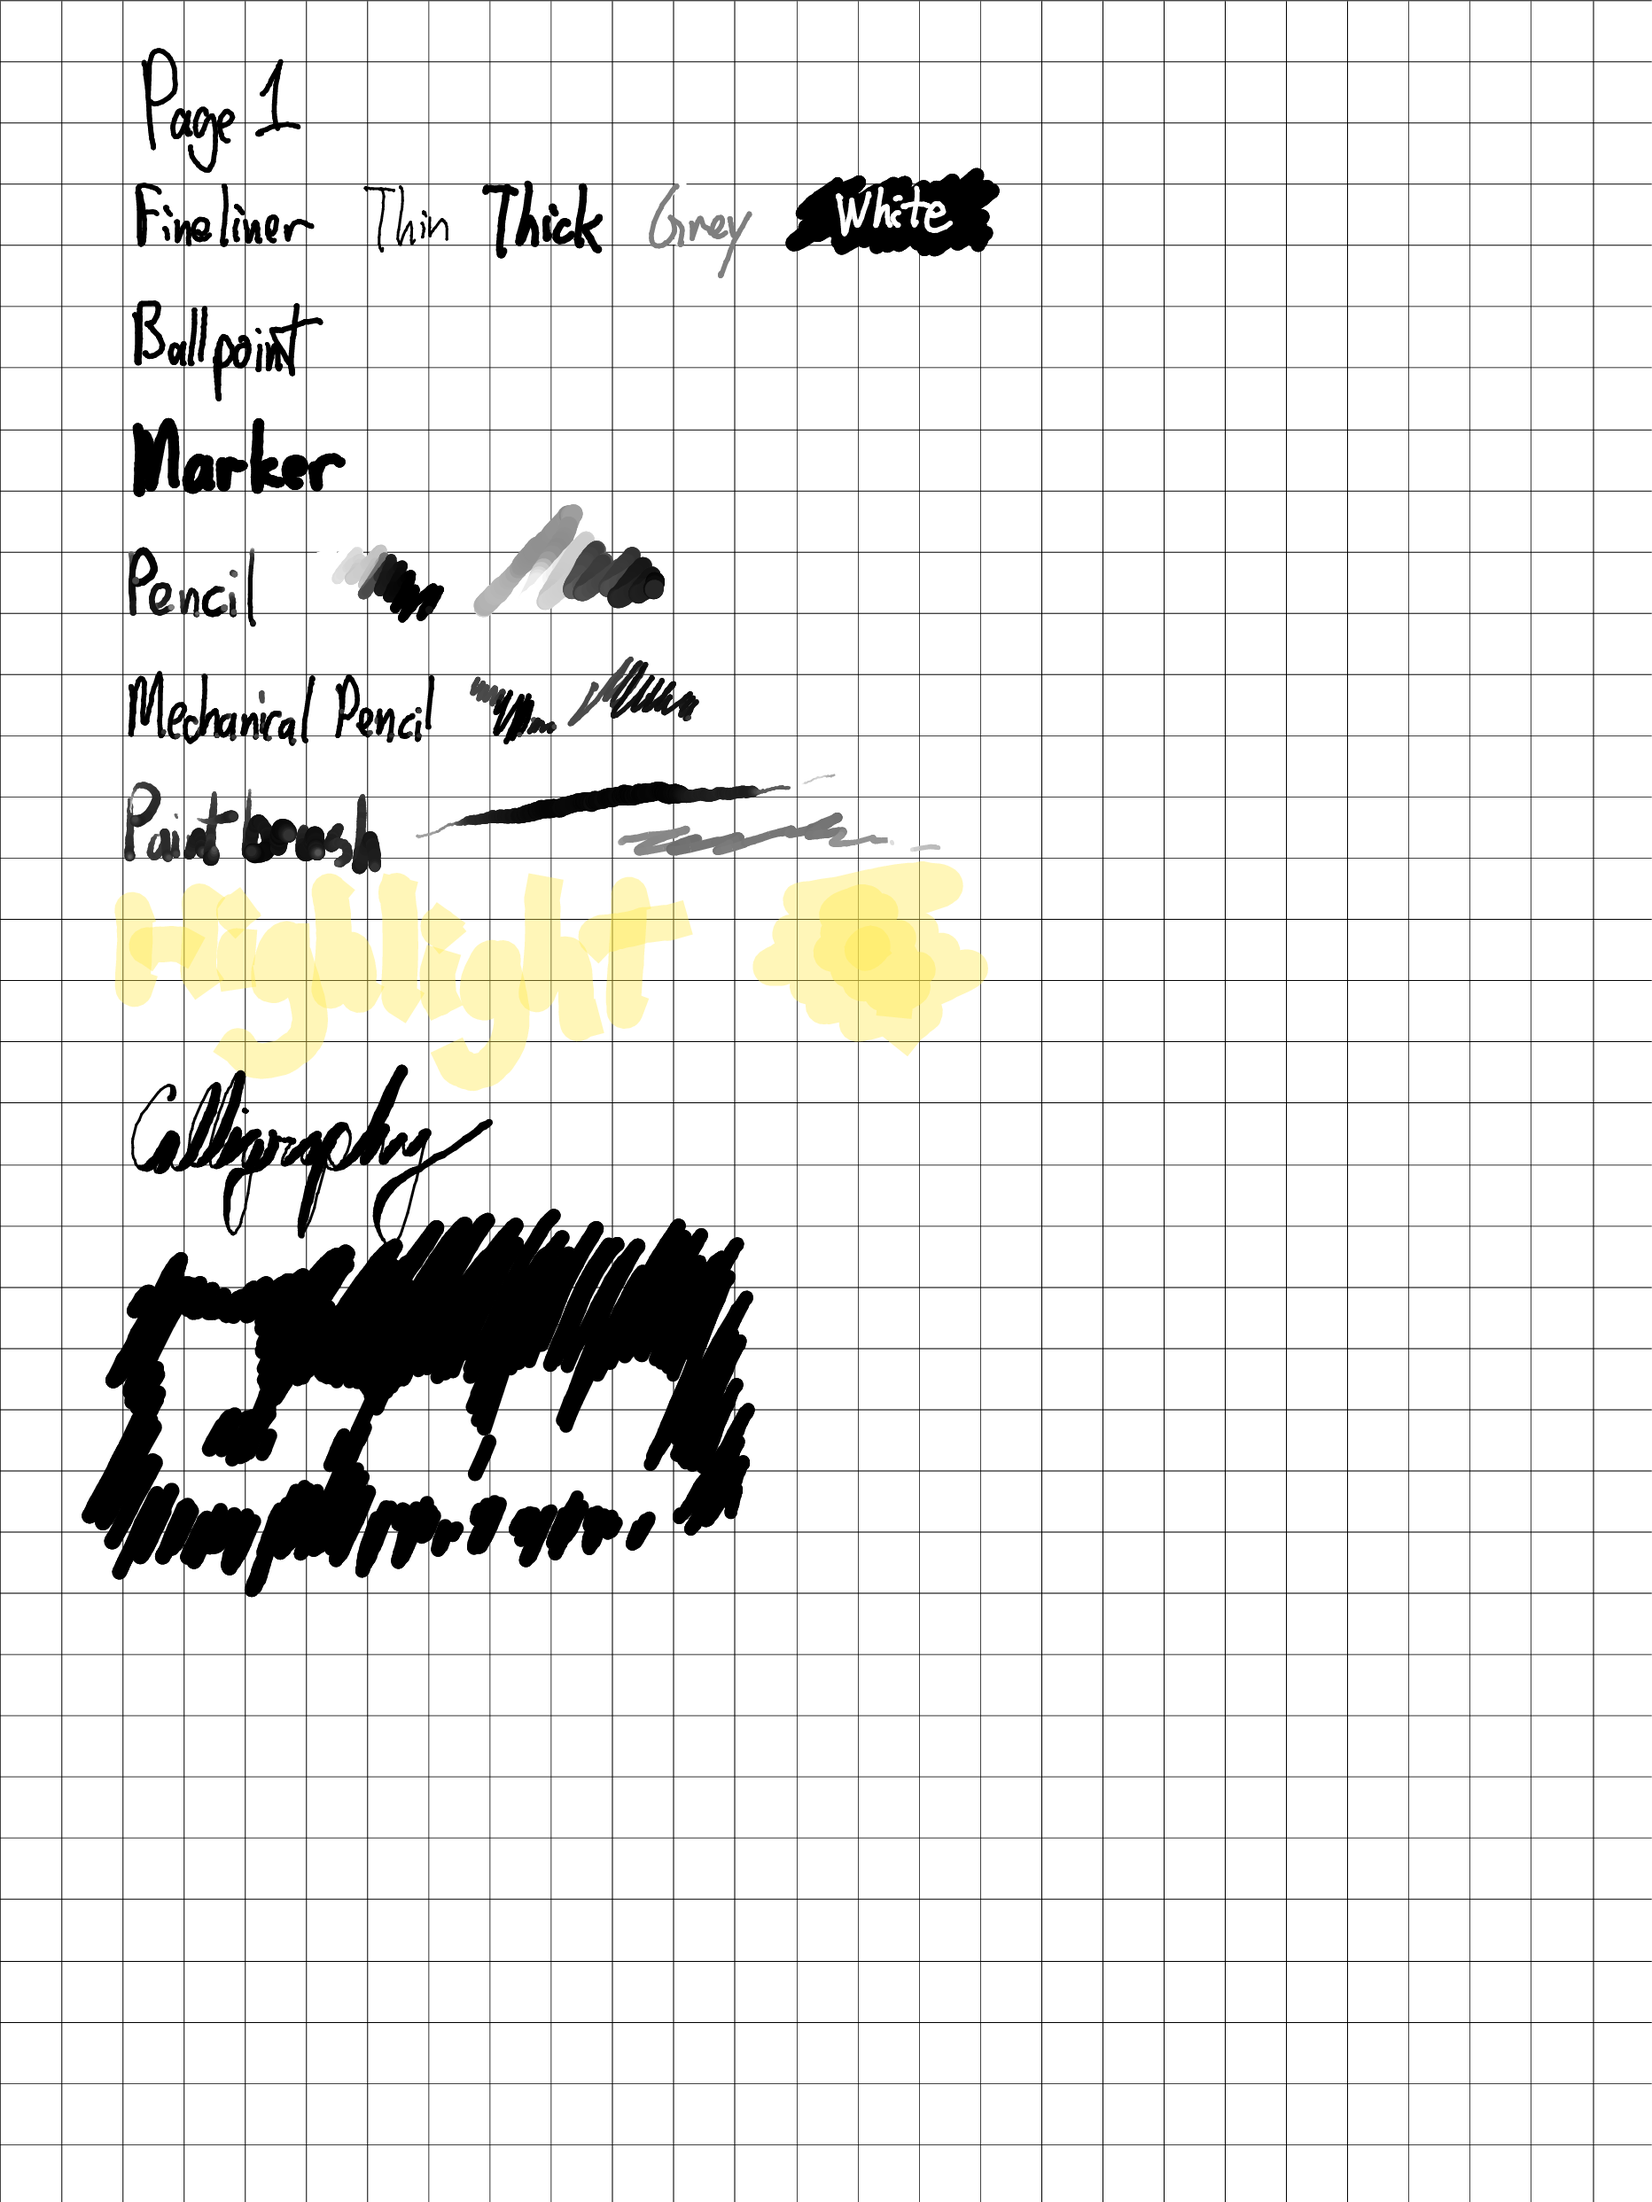
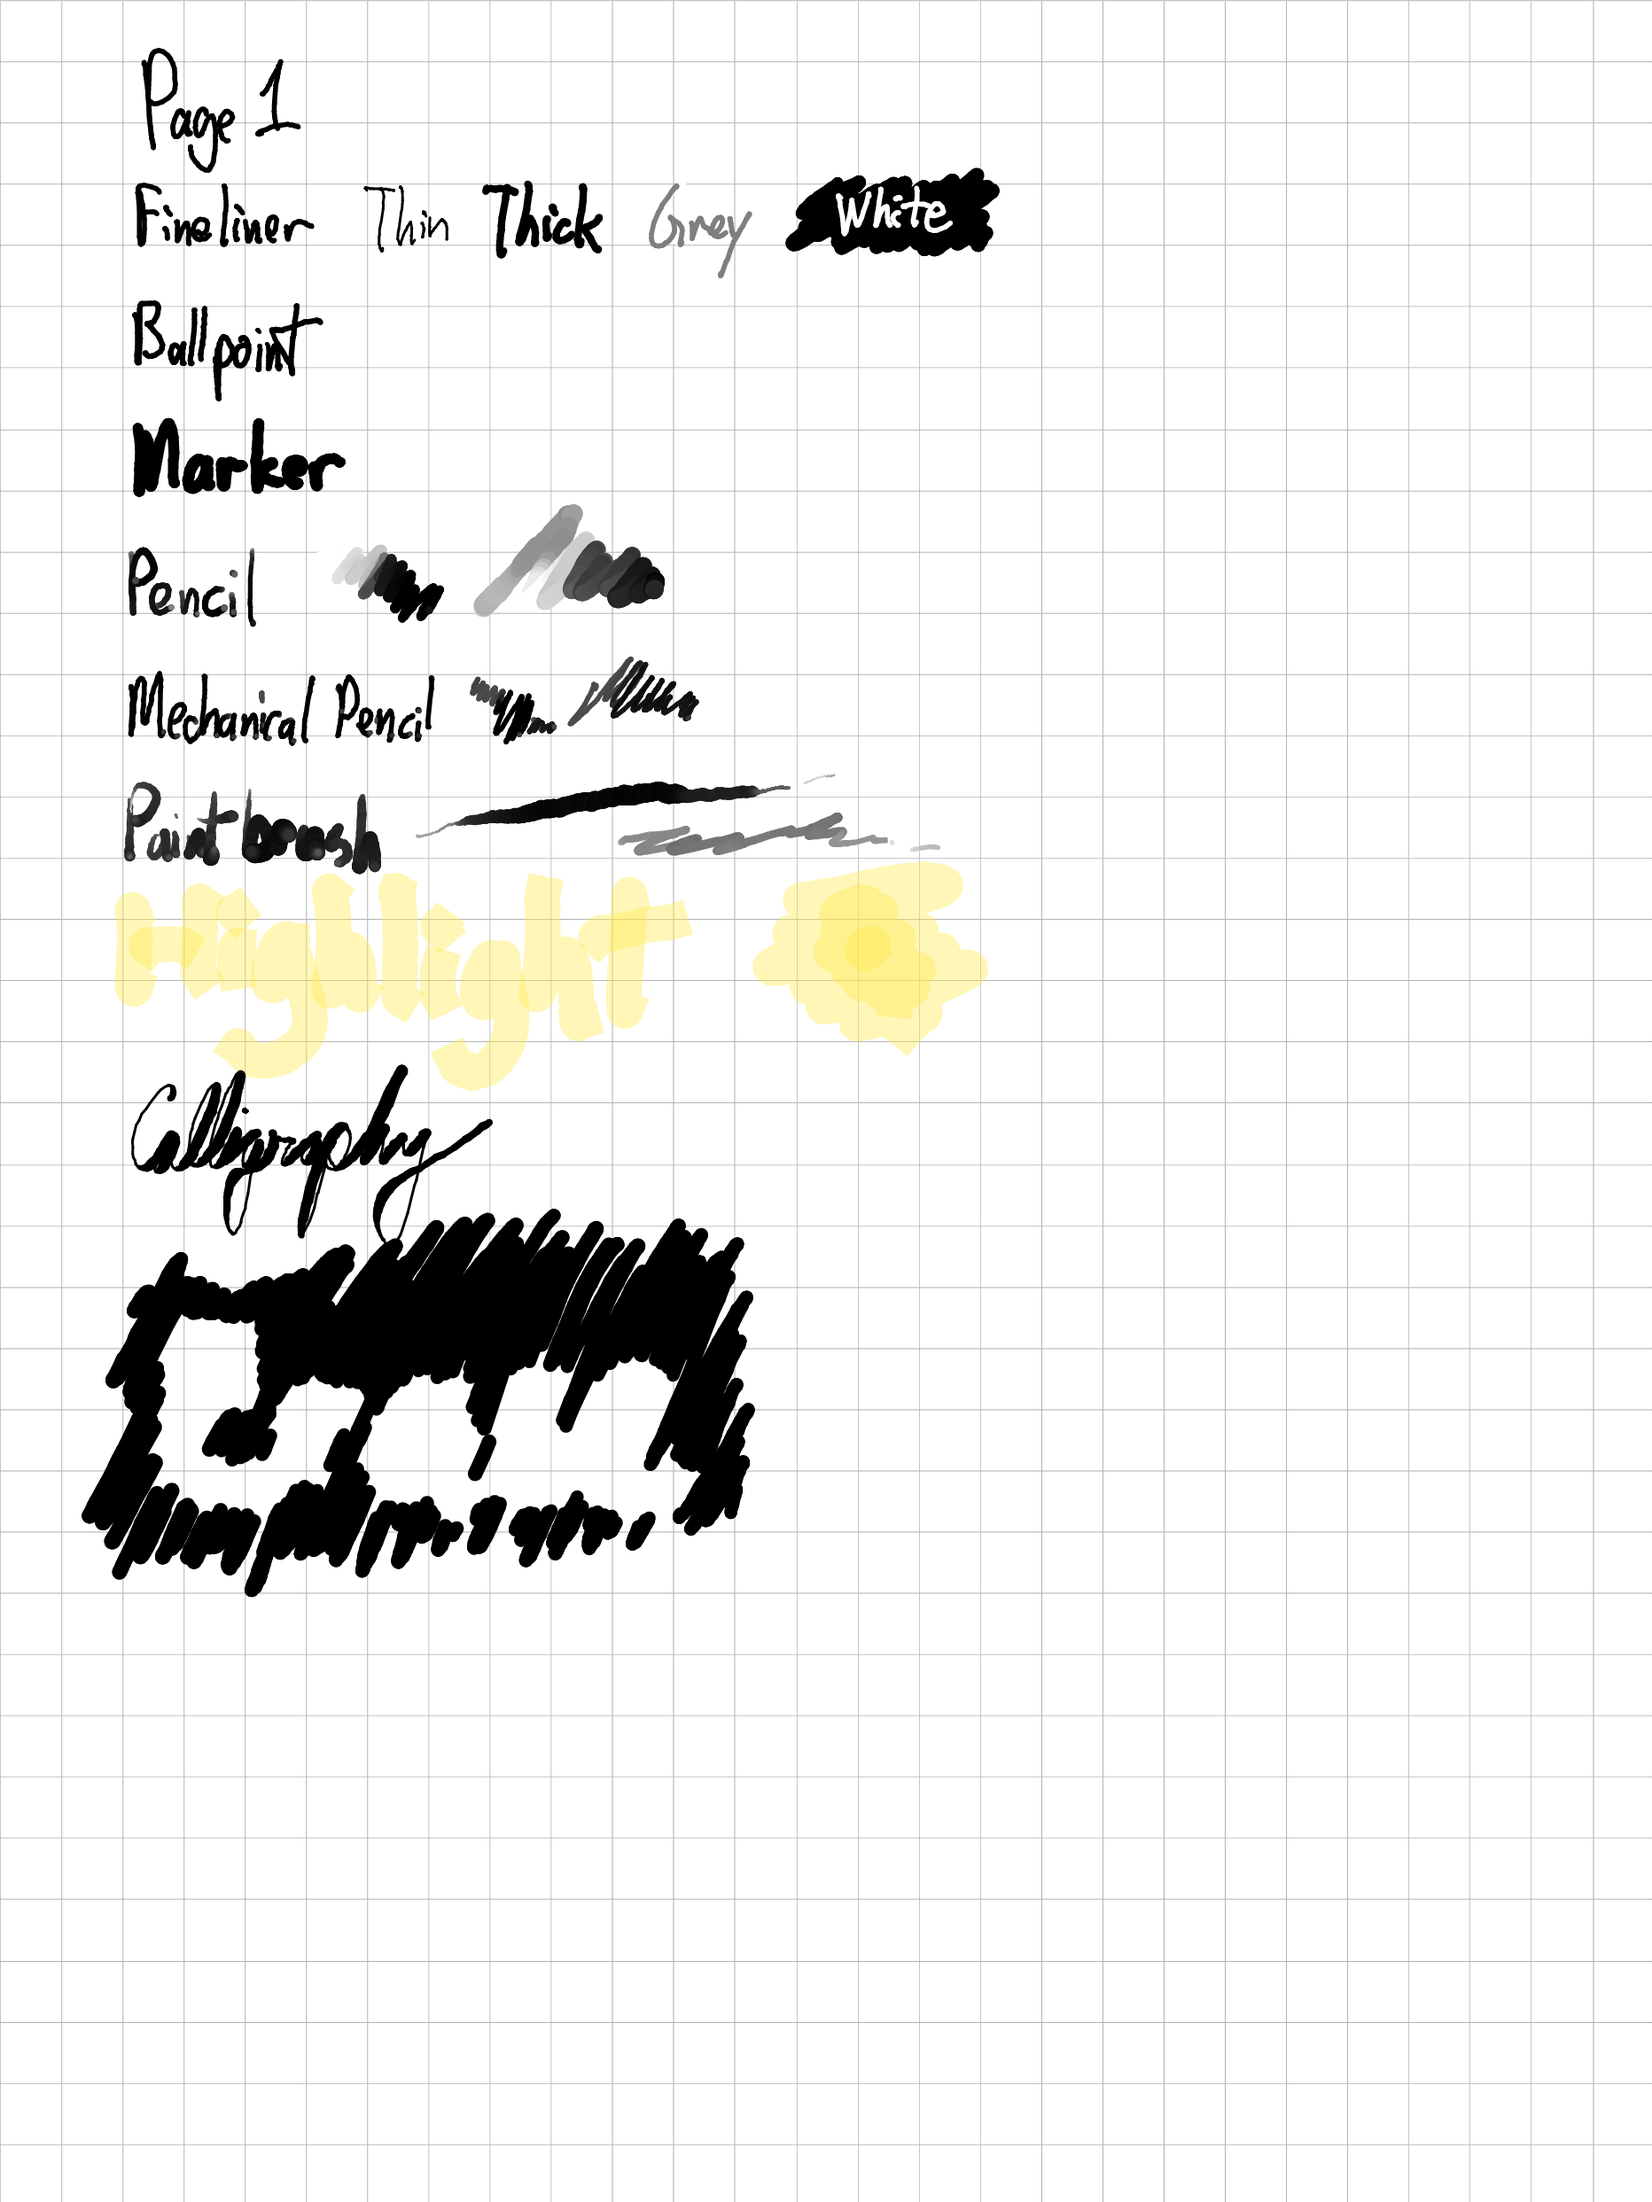
Replace demo file, to show new template alpha default

diff --git a/README.md b/README.md
@@ -16,8 +16,11 @@ dpi.
 [![reMarkable](demo/app.png)](demo/app.png) | [![rmrl](demo/rmrl.png)](demo/rmrl.png)
 
 The biggest differences are the lack of texture in the pencils and paintbrush,
-which we hope to address in the future.  The highlight color is also different,
-but we feel the default color is too subtle.
+which we hope to address in the future.  Two differences are intentional:
+- The highlight color is more saturated, since we feel the default color is
+  too subtle.
+- The grid lines from the template are less saturated, to better reflect the
+  appearance on the device.  This is configurable.
 
 Installation
 ------------
